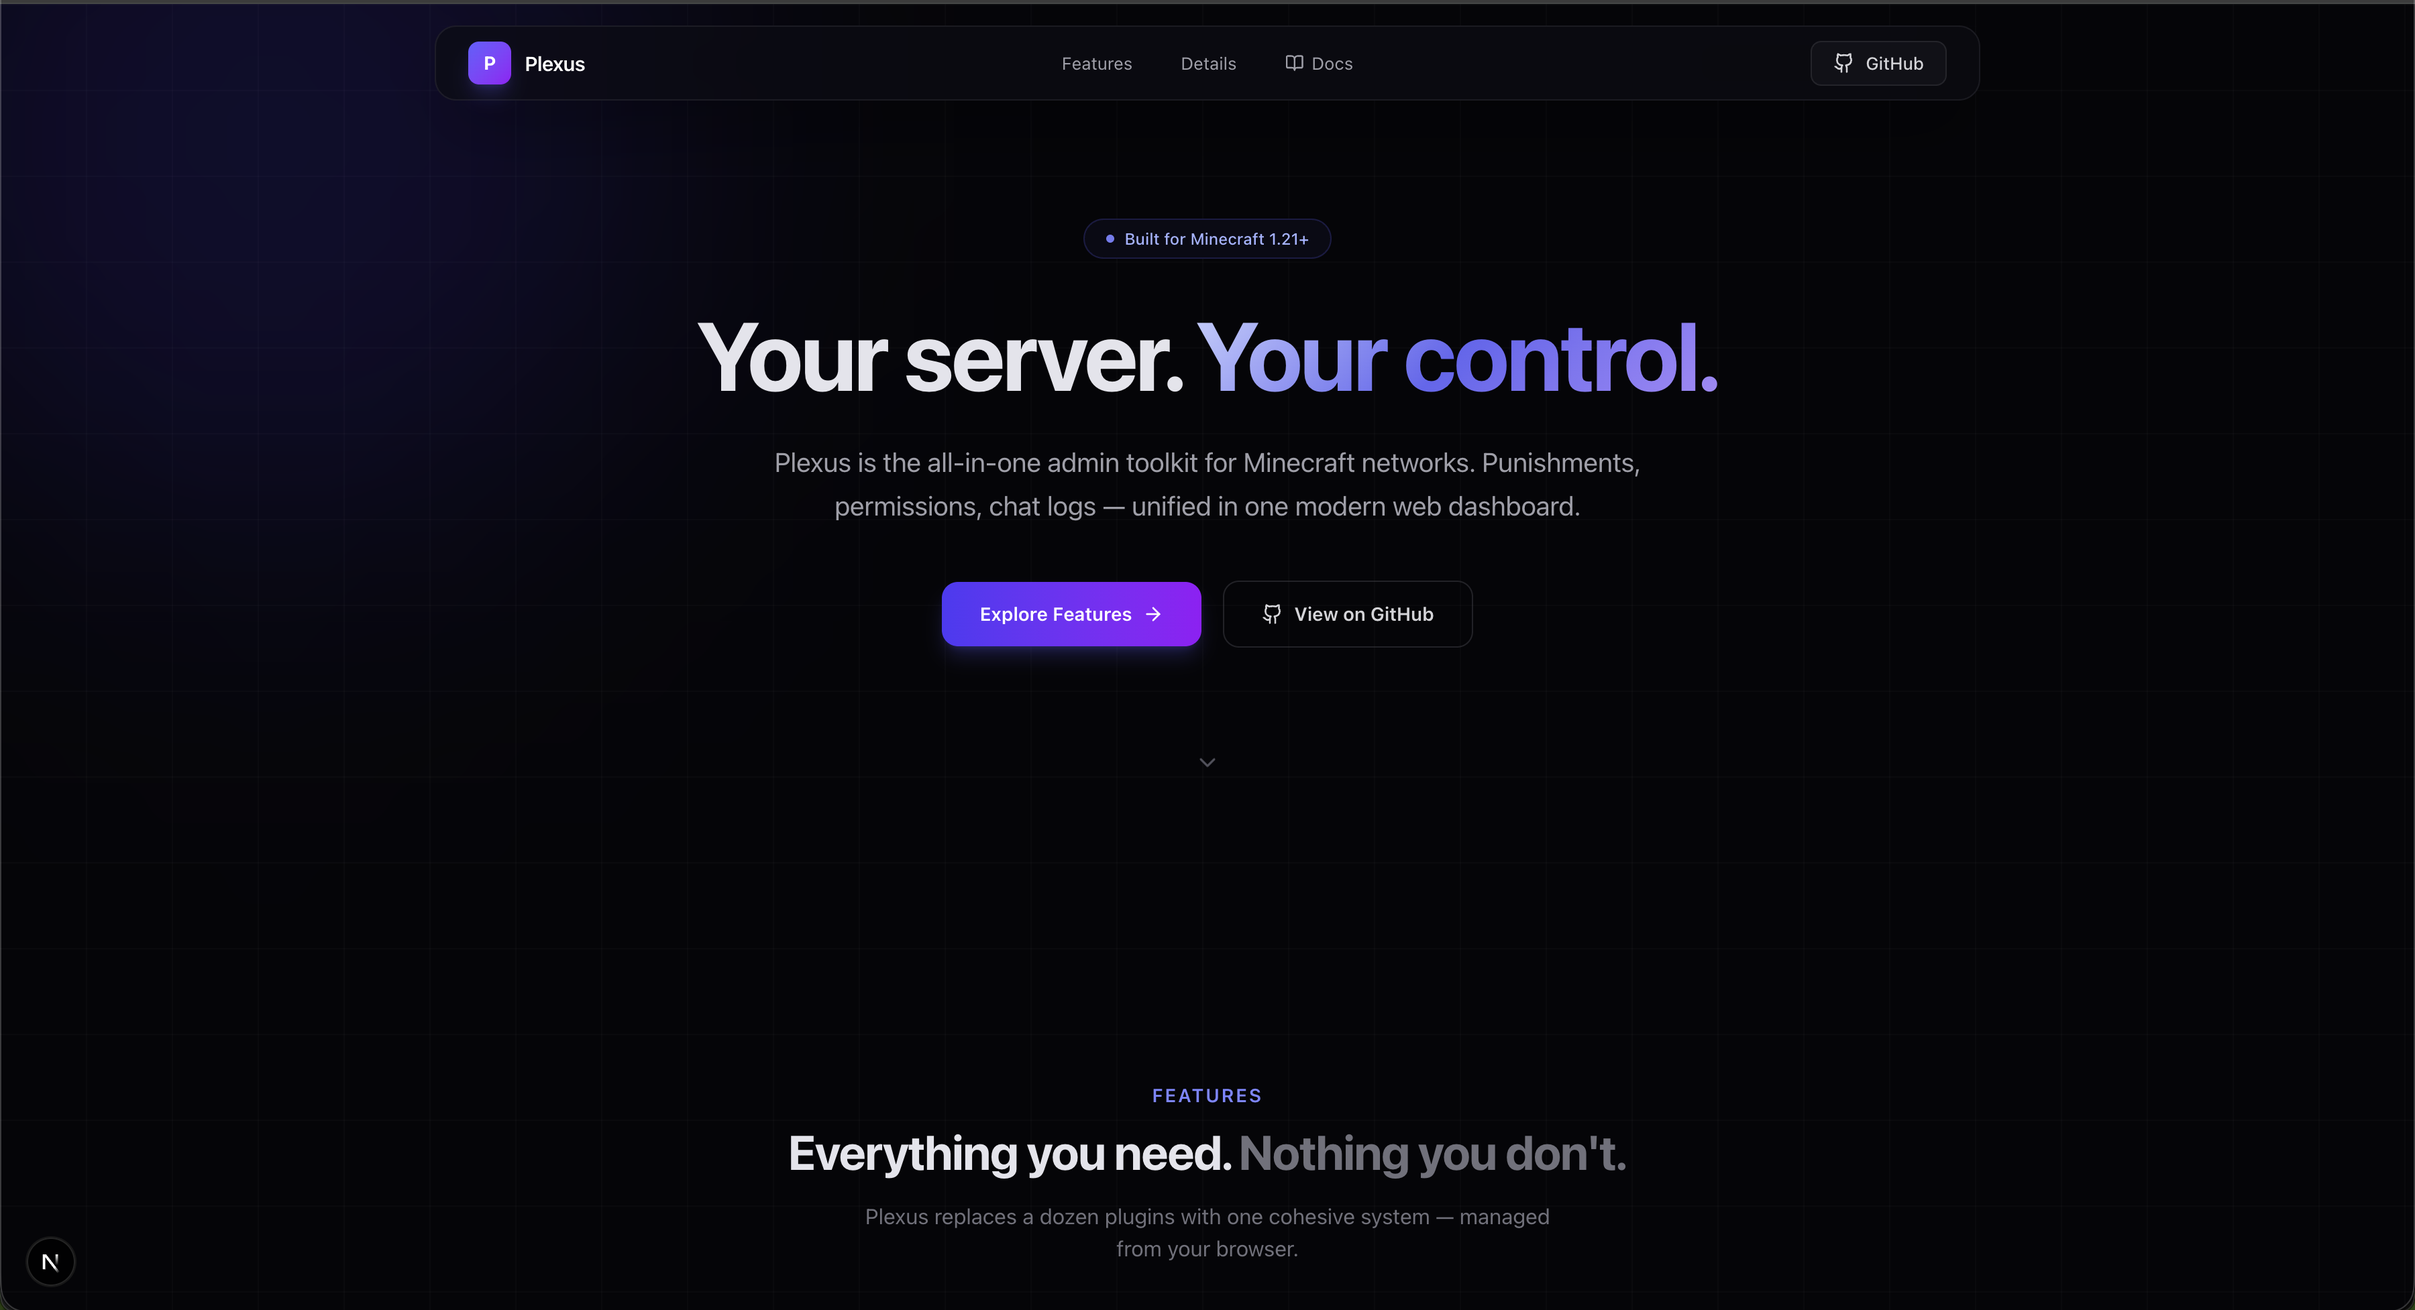
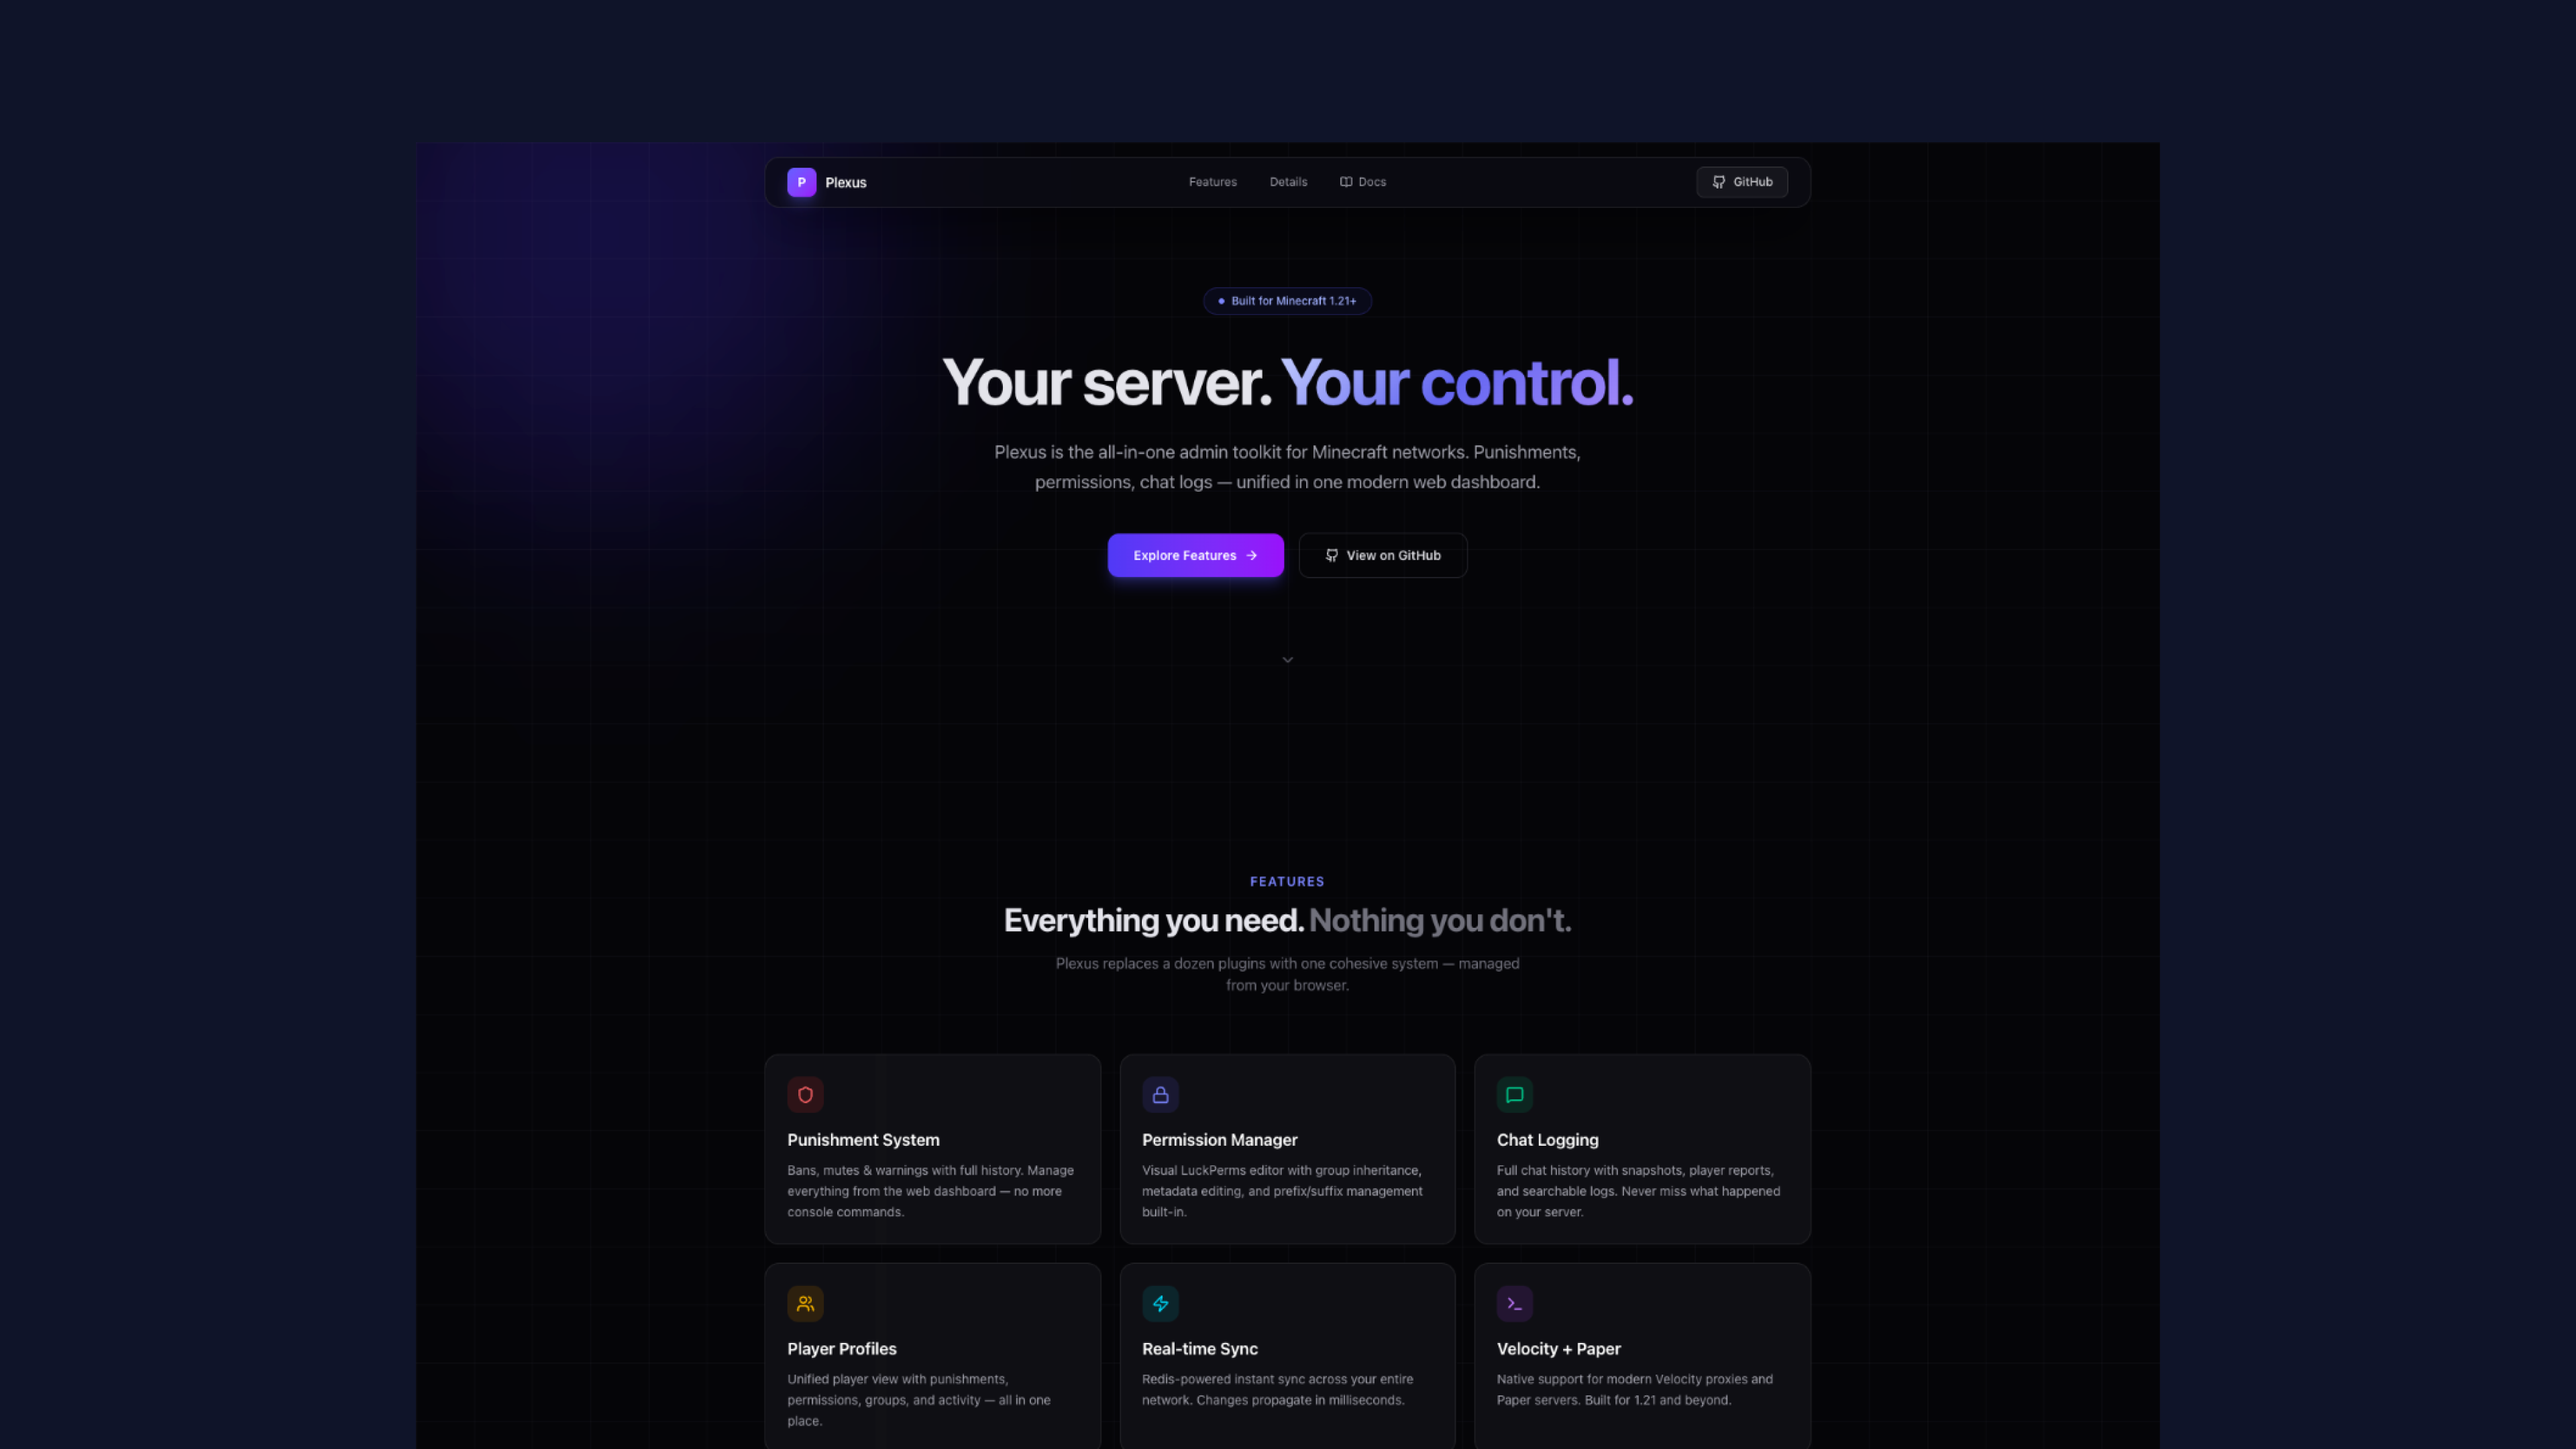
reedit image

diff --git a/src/data/projects.ts b/src/data/projects.ts
@@ -41,30 +41,6 @@ export const projects: Project[] = [
         color: "#16213e",
     },
     {
-        slug: "lucky-slot",
-        title: "LuckySlot",
-        description:
-            "An engaging Minecraft minigame plugin featuring smooth slot machine animations and reward systems.",
-        tags: ["Java", "Minecraft", "Game Design"],
-        color: "#0f3460",
-    },
-    {
-        slug: "lobby-plugin",
-        title: "Lobby System",
-        description:
-            "A feature-rich lobby plugin for Minecraft servers with interactive menus and player management.",
-        tags: ["Java", "Minecraft", "Paper API"],
-        color: "#1a1a2e",
-    },
-    {
-        slug: "invoicing-app",
-        title: "Invoicing App",
-        description:
-            "A GoBD-compliant SaaS for freelancers and small businesses, handling invoices, products, and customers.",
-        tags: ["TypeScript", "React", "Node.js"],
-        color: "#16213e",
-    },
-    {
         slug: "portfolio",
         title: "Portfolio Website",
         description:

diff --git a/src/app/work/[slug]/page.tsx b/src/app/work/[slug]/page.tsx
@@ -124,12 +124,7 @@ export default async function ProjectPage({ params }: { params: Promise<{ slug: 
                 </section>
             )}
 
-            {/* Gallery */}
-            {project.galleryImages && (
-                <section className="px-6 md:px-12 py-24 bg-neutral-900/30">
-                    {/* Placeholder for Gallery logic */}
-                </section>
-            )}
+
 
             {/* Show Main Image if available and not used in hero? Or just show it here clearly */}
             <section className="px-6 md:px-12 pb-32">
